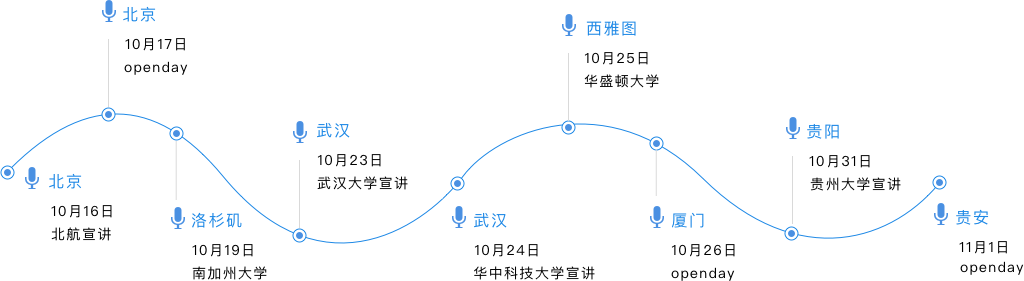
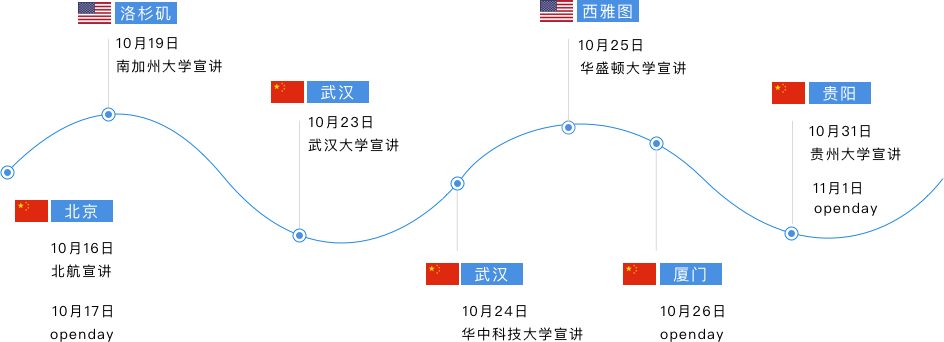
update jobs info and img

diff --git a/job/index.html b/job/index.html
@@ -77,7 +77,7 @@ title: 2019秋季校园招聘
                             <p>3、熟悉Linux开发环境，熟悉至少一门脚本语言，熟悉Python、Java者优先；</p>
                             <p>4、有良好的沟通能力和团队合作能力、高度的责任心；</p>
                             <p>5、对人工智能、机器学习具备浓厚的兴趣。</p>
-                            <a href="https://job.dajie.com/9004100100000022193.html?jobsearch=0&pagereferer=blank&keyword=%E5%89%8D%E7%AB%AF%E5%B7%A5%E7%A8%8B%E5%B8%88+%E7%99%BD%E5%B1%B1%E4%BA%91&clicktype=job">
+                            <a href="https://job.dajie.com/9004100100000022190.html?jobsearch=0&pagereferer=blank&keyword=%E6%9C%BA%E5%99%A8%E5%AD%A6%E4%B9%A0%E5%B7%A5%E7%A8%8B%E5%B8%88%E7%99%BD%E5%B1%B1%E4%BA%91&clicktype=job">
                                 <button class="apply-now">立即申请</button>
                             </a>
                         </div>
@@ -512,7 +512,7 @@ title: 2019秋季校园招聘
                             <p>3、熟悉Linux开发环境，熟悉至少一门脚本语言，熟悉Python、Java者优先；</p>
                             <p>4、有良好的沟通能力和团队合作能力、高度的责任心；</p>
                             <p>5、对人工智能、机器学习具备浓厚的兴趣。</p>
-                            <a href="">
+                            <a href="https://job.dajie.com/9004100100000022190.html?jobsearch=0&pagereferer=blank&keyword=%E6%9C%BA%E5%99%A8%E5%AD%A6%E4%B9%A0%E5%B7%A5%E7%A8%8B%E5%B8%88%E7%99%BD%E5%B1%B1%E4%BA%91&clicktype=job">
                                 <button class="apply-now">立即申请</button>
                             </a>
                         </div>
@@ -913,18 +913,19 @@ title: 2019秋季校园招聘
             </div>
         </section>
     </div>
-    <div id="zhaopin" class="content-box content-offer">
+    <div style="background-color:rgb(249,250,252)" id="zhaopin" class="content-box content-offer">
         <h2 class="title title-offer">招聘流程</h2>
-
-        <div class="flow hidden-xs">
+        <img class="process-img-lg content hidden-xs" src="{{ site.baseurl }}/public/image/job/zhaopinliucheng-lg.png">
+        
+        <!-- <div class="flow hidden-xs">
             <div class="flow-item">
                 <img src="{{ site.baseurl }}/public/image/job/net.png">
                 <p>网申</p>
                 <div class="hover-item">
                     <p class="item-title"><a class="goto" >网申</a></p>
                     <div class="item-info">
-                        <p>国内 10.26开始</p>
-                        <p>北美 10.26-10.25</p>
+                        <p>国内 9.26-10.30</p>
+                        <p>北美 9.26-10.25</p>
                     </div>
                 </div>
             </div>
@@ -937,7 +938,7 @@ title: 2019秋季校园招聘
                 <div class="hover-item">
                     <p class="item-title"><a class="goto" >宣讲</a></p>
                     <div class="item-info">
-                        <p>国内 9.26-10.30</p>
+                        <p>国内 10.16-10.31</p>
                         <p>北美 10.19-10.25</p>
                     </div>
                 </div>
@@ -951,7 +952,7 @@ title: 2019秋季校园招聘
                 <div class="hover-item">
                     <p class="item-title">笔试</p>
                     <div class="item-info">
-                        <p>国内 10.16-10.30</p>
+                        <p>国内 10.16-10.31</p>
                         <p>北美 10.19-10.25</p>
                     </div>
                 </div>
@@ -965,7 +966,7 @@ title: 2019秋季校园招聘
                 <div class="hover-item">
                     <p class="item-title">面试</p>
                     <div class="item-info">
-                        <p>国内 10.17-10.31</p>
+                        <p>国内 10.17-11.01</p>
                         <p>北美 10.19-10.26</p>
                     </div>
                 </div>
@@ -980,11 +981,11 @@ title: 2019秋季校园招聘
                     <p class="item-title">Offer</p>
                     <div class="item-info">
                         <p>国内 面试当天</p>
-                        <p>北美 面试当天</p>
+                        <p>北美 面试次日</p>
                     </div>
                 </div>
             </div>
-        </div>
+        </div> -->
 
         <div class="flow-xs visible-xs">
             <div class="flow-item-xs">
@@ -992,8 +993,7 @@ title: 2019秋季校园招聘
                     <p>网申</p>
                 </div>
                 <div class="item-info-xs">
-                    <!-- <p>&nbsp &nbsp 10月26日-10月29日</p> -->
-                    <p>国内 9月26日开始</p>
+                    <p>国内 9月26日-10月30日</p>
                     <p>北美 9月26日-10月25日</p>
                 </div>
             </div>
@@ -1002,7 +1002,7 @@ title: 2019秋季校园招聘
                     <p>宣讲</p>
                 </div>
                 <div class="item-info-xs">
-                    <p>国内 10月16日-10月30日</p>
+                    <p>国内 10月16日-10月31日</p>
                     <p>北美 10月19日-10月25日</p>
                 </div>
             </div>
@@ -1011,7 +1011,7 @@ title: 2019秋季校园招聘
                     <p>笔试</p>
                 </div>
                 <div class="item-info-xs">
-                    <p>国内 10月16日-10月30日</p>
+                    <p>国内 10月16日-10月31日</p>
                     <p>北美 10月19日-10月25日</p>
                 </div>
             </div>
@@ -1020,8 +1020,8 @@ title: 2019秋季校园招聘
                     <p>面试／Offer</p>
                 </div>
                 <div class="item-info-xs">
-                    <p>国内 10月17日-10月31日</p>
-                    <p>北美 10月19日-10月25日</p>
+                    <p>国内 10月17日-11月01日</p>
+                    <p>北美 10月19日-10月26日</p>
                 </div>
             </div>
             <div class="flow-item-xs">
@@ -1039,29 +1039,28 @@ title: 2019秋季校园招聘
             </div>
         </div>
     </div>
-    <div id="xuanjiang" class="content-box process">
+    <div id="xuanjiang" style="background-color:rgb(249,250,252)" class="content-box process">
         <h2 class="title"><a name="宣讲会">宣讲会流程</a></h2>
         <img class="process-img-lg content hidden-xs" src="{{ site.baseurl }}/public/image/job/xuanjiangliucheng-lg.png">
-        <img class="process-img content visible-xs" src="{{ site.baseurl }}/public/image/job/xuanjiangliucheng-sm.jpg">
-    </div>
-    
-    <div id="" class="content-box content-openday">
-        <section class="content clearfix">
-            <div class="col-sm-6 col-xs-12 openday-box-l">
-                <div class="openday-left">
-                    <img src="{{ site.baseurl }}/public/image/job/openday-blue.png" alt="">
-                    <p class="openday-blue">OPENDAY</p>
-                    <!-- <p class="openday-info">10月12日 - 10月21日</p> -->
-                </div>
-            </div>
-            <div class="col-sm-6 col-xs-12 openday-box-r">
-                <div class="openday-right">
-                    <p class="openday-time"><span class="blue">北京：</span>10月17日  白山北京办公室</p>
-                    <p class="openday-time"><span class="blue">厦门：</span>10月26日  白山厦门办公室</p>
-                    <p class="openday-time"><span class="blue">贵安：</span>11月01日  白山贵安办公室</p>
-                </div>
-            </div>
-        </section>
+        <img class="process-img content visible-xs" src="{{ site.baseurl }}/public/image/job/xuanjiangliucheng-sm.png">
+      <div style="background-color:rgb(249,250,252)" class="content-box content-openday">
+          <section class="content clearfix">
+              <div class="col-sm-6 col-xs-12 openday-box-l">
+                  <div class="openday-left">
+                      <img src="{{ site.baseurl }}/public/image/job/openday-blue.png" alt="">
+                      <p class="openday-blue">OPENDAY</p>
+                      <!-- <p class="openday-info">10月12日 - 10月21日</p> -->
+                  </div>
+              </div>
+              <div class="col-sm-6 col-xs-12 openday-box-r">
+                  <div class="openday-right">
+                      <p class="openday-time"><span class="blue">北京：</span>10月17日  白山北京办公室</p>
+                      <p class="openday-time"><span class="blue">厦门：</span>10月26日  白山厦门办公室</p>
+                      <p class="openday-time"><span class="blue">贵安：</span>11月01日  白山贵安办公室</p>
+                  </div>
+              </div>
+          </section>
+      </div>
     </div>
 
     <div id="jobs-about" class="content-box company-profile ">
@@ -1074,17 +1073,17 @@ title: 2019秋季校园招聘
         </div>
     </div>
     
-    <div class="content-box company-profile-more">
-        <h2 class="title">公司历程</h2>
+    <div style="background-color: #33649D; color:#fff !important " class="content-box company-profile-more">
+        <h2 style="color:#fff" class="title">公司历程</h2>
         <div class="jobs-licheng">
             {% assign courses=site.data.baishan-course %}
             {% for course in courses %}
-            <div class="course-item"><img class="course-img" src="/public/image/more/{{course.img}}"><span class="course-text">{{course.text}}</span></div>
+            <div class="course-item"><img class="course-img" src="/public/image/job/course.jpg"><span class="course-text">{{course.text}}</span></div>
             {% endfor %}
         </div>
     </div>
 
-    <div class="content-box content-about staff-about">
+    <div style="background-color:rgb(249,250,252)" class="content-box content-about staff-about">
         <h2 class="title ">员工关怀</h2>
         <section class="content content-enjoy clearfix">
             <div class="col-sm-3 col-xs-6 enjoy-item">
@@ -1138,33 +1137,27 @@ title: 2019秋季校园招聘
                     <p>扬长不避短</p>
                 </div>
             </div>
+        
         </section>
-        <!-- test -->
-        <section style="display:none"  class="content">
+         
+         <section class="hidden-xs content staffCare">
           <div id="myCarousel" class="carousel slide">
             <ol class="carousel-indicators">
               <li data-target="#myCarousel" data-slide-to="0" class="active"></li>
               <li data-target="#myCarousel" data-slide-to="1"></li>
-              <li data-target="#myCarousel" data-slide-to="2"></li>
+              <!-- <li data-target="#myCarousel" data-slide-to="2"></li> -->
             </ol>   
-            <div class="carousel-inner">
+            <div class="staffCare-carousel carousel-inner">
                 <div class="item active">
-                    <img src="" alt="First slide">
+                    <img class="staffCare-img" src="{{ site.baseurl }}/public/image/job/yuangongfengcai-lg.png" alt="First slide">
                 </div>
                 <div class="item">
-                    <img src="" alt="Second slide">
+                    <img class="staffCare-img" src="{{ site.baseurl }}/public/image/job/yuangongfengcai-lg-1.png"" alt="Second slide">
                 </div>
             </div>
-            <a class="left carousel-control" href="#myCarousel" role="button" data-slide="prev">
-              <span class="glyphicon glyphicon-chevron-left" aria-hidden="true"></span>
-              <span class="sr-only">Previous</span>
-            </a>
-            <a class="right carousel-control" href="#myCarousel" role="button" data-slide="next">
-              <span class="glyphicon glyphicon-chevron-right" aria-hidden="true"></span>
-              <span class="sr-only">Next</span>
-            </a>
           </div>
         </section>
+
     </div>
 
     <div class="hidden-xs content-box content-about staff-about-more">

diff --git a/public/css/job.css b/public/css/job.css
@@ -358,17 +358,17 @@
 .jobs .content-profile {
     font-size: 14px;
     color: #4A4A4A;
-    padding: 0 20% 90px 20%;
+    padding: 0 20% 0px 20%;
 }
 @media(max-width:768px) {
     .jobs .content-profile {
-        padding: 0 15% 90px 15%;
+        padding: 0 15% 0px 15%;
     }
 }
 @media(max-width:375px) {
     .jobs .content-profile {
         font-size: 1em;
-        padding: 0 55px 90px 55px;
+        padding: 0 55px 0px 55px;
     }
     .jobs .company-profile-more {
         padding-bottom: 10px;
@@ -499,7 +499,7 @@
 
 @media(max-width:768px) {
     .jobs header {
-        background: url(../image/job/IMG-HEAD-sm.jpg) no-repeat;
+        /* background: url(../image/job/IMG-HEAD-sm.jpg) no-repeat; */
         background-size: 100% auto;
     }
     .jobs .flow-xs {
@@ -507,7 +507,7 @@
         color: #ffffff;
     }
     .jobs .flow-xs .flow-item-xs {
-        background: rgba(0, 0, 0, 0.3);
+        background: rgb(193,217,245);
         margin-top: 8px;
         padding: 8px 5px;
     }
@@ -540,12 +540,10 @@
         top: -15px;
     }
 }
-.jobs .content-offer {
-    background: #33649D;
-    padding-bottom: 25px;
+.jobs .content-offer .process-img-lg {
+    margin-top: 90px;
 }
 .jobs .content-offer .title-offer {
-    color: #fff !important;
     margin-bottom: 0 !important;
 }
 
@@ -570,7 +568,7 @@
 }
 .jobs .content-openday {
     margin-top:50px;
-    margin-bottom:50px;
+    padding-bottom:50px;
     text-align: center;
 }
 @media(min-width:768px){
@@ -697,6 +695,17 @@
     background-color: rgb(94, 0, 255);
     flex: 2;
 }
+.jobs .staffCare {
+    margin-top:60px;
+}
+.jobs .staffCare .staffCare-carousel {
+    height: 568px;
+    width: 100%;
+}
+.jobs .staffCare .staffCare-carousel .staffCare-img {
+    height: 508px;
+    width: 100%;
+}
 @media(min-width:769px) {
      .jobs .jobs-slide-content{
         position: relative;
@@ -740,6 +749,17 @@
     }
 }
 @media(min-width:375px) and (max-width:768px) {
+     .jobs .staffCare {
+          margin-top: 40px;
+      }
+      .jobs .staffCare .staffCare-carousel {
+          height: 498px;
+          width: 100%;
+      }
+      .jobs .staffCare .staffCare-carousel .staffCare-img {
+          height: 448px;
+          width: 100%;
+      }
     .jobs .jobs-slide-content{
         position: relative;
         left: 15%;
